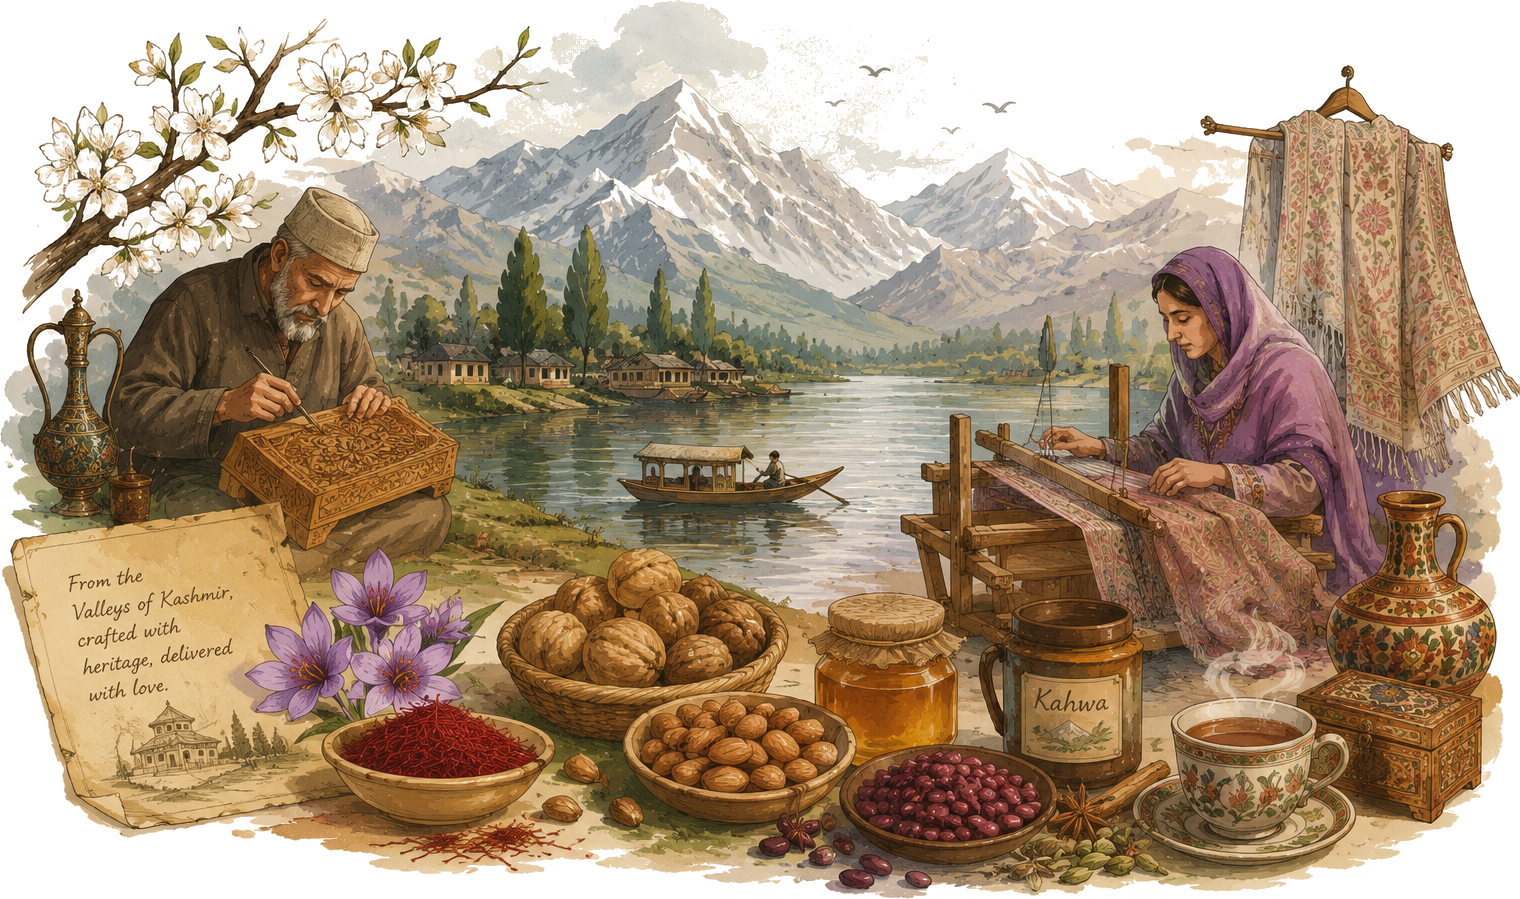
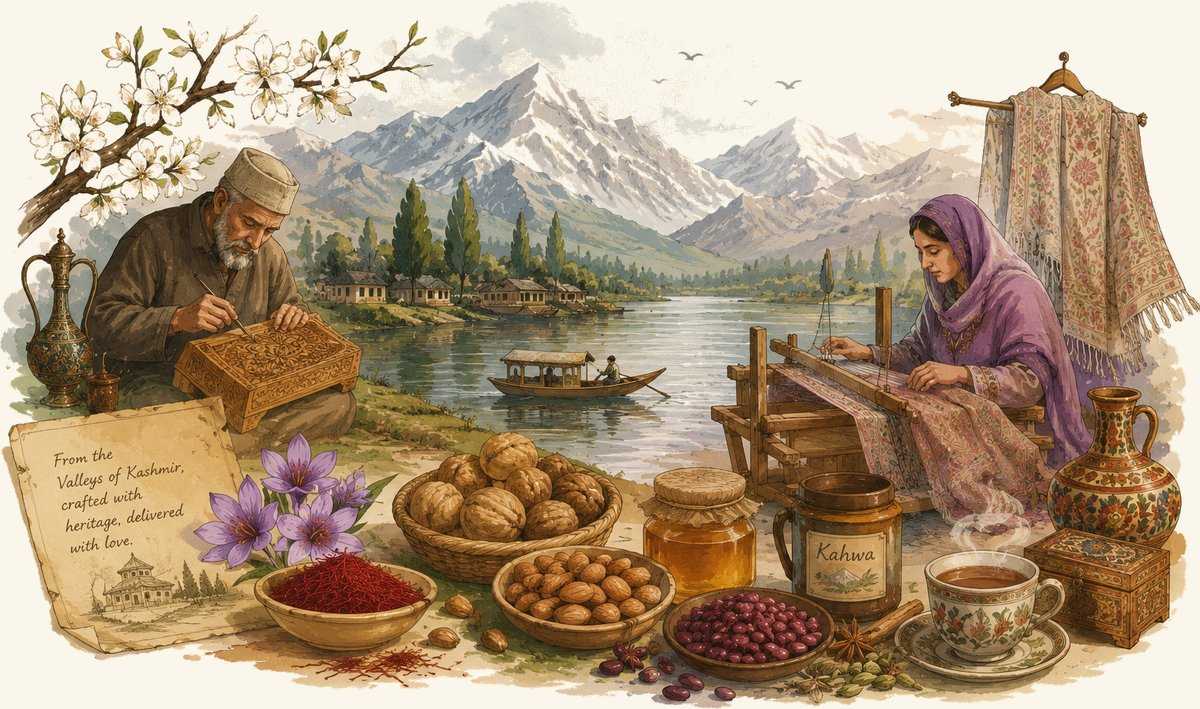
Optimize public image assets, configure Vercel SPA routing and custom 404 page

diff --git a/src/App.jsx b/src/App.jsx
@@ -822,6 +822,12 @@ export default function App() {
   // Handle hash navigation
   useEffect(() => {
     const handleHashChange = () => {
+      // If we have a non-root pathname (e.g. /fhdfh or /about), rewrite it locally to hash navigation
+      if (window.location.pathname !== '/' && window.location.pathname !== '/index.html') {
+        const cleanPath = window.location.pathname.replace(/^\//, '');
+        window.history.replaceState(null, '', `/#${cleanPath}`);
+      }
+
       const hash = window.location.hash.replace('#', '') || 'home';
       
       // Handle different routes
